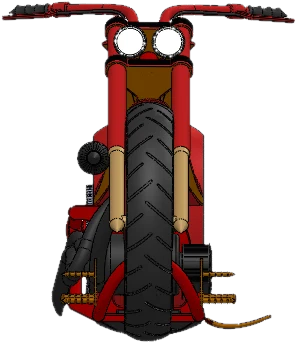
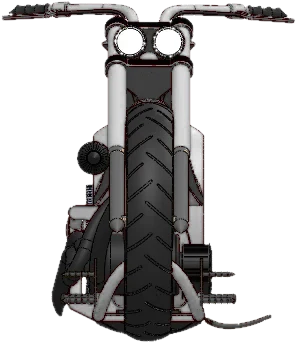
Recolour chopper to silver body with dark details
Claude-Session: https://claude.ai/code/session_013AYAsBTZLjRNCKGNYtLn2D

diff --git a/index.html b/index.html
@@ -113,7 +113,7 @@
         <p>A full chopper modelled part by part: frame, forks, V-twin engine, spoked wheels and bodywork.</p>
       </div>
       <div class="feature-views">
-        <img src="assets/img/chopper-side.webp" width="917" height="347" alt="Side view of a red chopper motorcycle CAD model" loading="lazy">
+        <img src="assets/img/chopper-side.webp" width="917" height="347" alt="Side view of a silver chopper motorcycle CAD model" loading="lazy">
         <img class="front" src="assets/img/chopper-front.webp" width="297" height="343" alt="Front view of the same model" loading="lazy">
       </div>
     </article>
